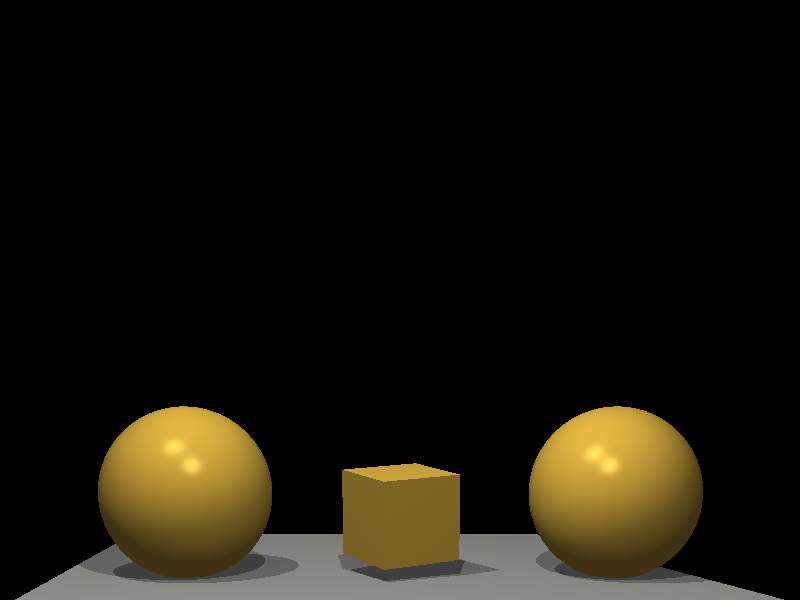
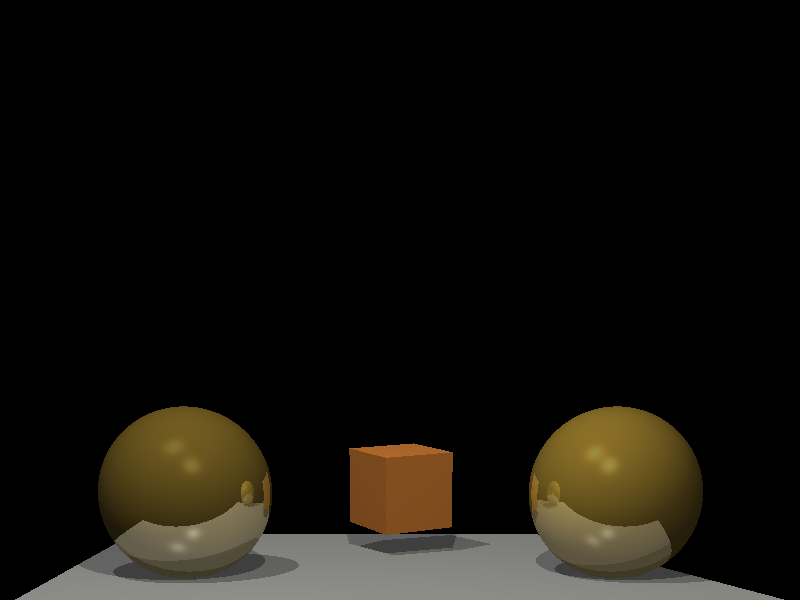
start of refraction (added transparency property to Material)

Changed region(s): [[0.6562, 0.66, 0.9062, 0.96], [0.125, 0.66, 0.3438, 0.96], [0.4062, 0.72, 0.625, 0.99]]

diff --git a/Commons/Materials/MaterialFactory.cs b/Commons/Materials/MaterialFactory.cs
@@ -2,74 +2,74 @@
 
 public class MaterialFactory
 {
-    public static Material Create(MaterialType type, double reflectivity)
+    public static Material Create(MaterialType type, double reflectivity = 0, double transparency = 0)
     {
         return type switch
         {
             MaterialType.Emerald => new Material(type, new RgbColor(0.0215, 0.1745, 0.0215), new RgbColor(0.07568, 0.61424, 0.07568),
-                new RgbColor(0.633, 0.727811, 0.633), 0.6, reflectivity),
+                new RgbColor(0.633, 0.727811, 0.633), 0.6, reflectivity, transparency),
 
             MaterialType.Jade => new Material(type, new RgbColor(0.135, 0.2225, 0.1575), new RgbColor(0.54, 0.89, 0.63),
-                new RgbColor(0.316228, 0.316228, 0.316228), 0.1, reflectivity),
+                new RgbColor(0.316228, 0.316228, 0.316228), 0.1, reflectivity, transparency),
 
             MaterialType.Obsidian => new Material(type, new RgbColor(0.05375, 0.05, 0.06625), new RgbColor(0.18275, 0.17, 0.22525),
-                new RgbColor(0.332741, 0.328634, 0.346435), 0.3, reflectivity),
+                new RgbColor(0.332741, 0.328634, 0.346435), 0.3, reflectivity, transparency),
 
             MaterialType.Pearl => new Material(type, new RgbColor(0.25, 0.20725, 0.20725), new RgbColor(1.0, 0.829, 0.829),
-                new RgbColor(0.296648, 0.296648, 0.296648), 0.088, reflectivity),
+                new RgbColor(0.296648, 0.296648, 0.296648), 0.088, reflectivity, transparency),
 
             MaterialType.Ruby => new Material(type, new RgbColor(0.1745, 0.01175, 0.01175), new RgbColor(0.61424, 0.04136, 0.04136),
-                new RgbColor(0.727811, 0.626959, 0.626959), 0.6, reflectivity),
+                new RgbColor(0.727811, 0.626959, 0.626959), 0.6, reflectivity, transparency),
 
             MaterialType.Turquoise => new Material(type, new RgbColor(0.1, 0.18725, 0.1745), new RgbColor(0.396, 0.74151, 0.69102),
-                new RgbColor(0.297254, 0.30829, 0.306678), 0.1, reflectivity),
+                new RgbColor(0.297254, 0.30829, 0.306678), 0.1, reflectivity, transparency),
 
             MaterialType.Brass => new Material(type, new RgbColor(0.329412, 0.223529, 0.027451), new RgbColor(0.780392, 0.568627, 0.113725),
-                new RgbColor(0.992157, 0.941176, 0.807843), 0.21794872, reflectivity),
+                new RgbColor(0.992157, 0.941176, 0.807843), 0.21794872, reflectivity, transparency),
 
             MaterialType.Bronze => new Material(type, new RgbColor(0.2125, 0.1275, 0.054), new RgbColor(0.714, 0.4284, 0.18144),
-                new RgbColor(0.393548, 0.271906, 0.166721), 0.2, reflectivity),
+                new RgbColor(0.393548, 0.271906, 0.166721), 0.2, reflectivity, transparency),
 
             MaterialType.Chrome => new Material(type, new RgbColor(0.25, 0.25, 0.25), new RgbColor(0.4, 0.4, 0.4), new RgbColor(0.774597, 0.774597, 0.774597),
-                0.6, reflectivity),
+                0.6, reflectivity, transparency),
 
             MaterialType.Copper => new Material(type, new RgbColor(0.19125, 0.0735, 0.0225), new RgbColor(0.7038, 0.27048, 0.0828),
-                new RgbColor(0.256777, 0.137622, 0.086014), 0.1, reflectivity),
+                new RgbColor(0.256777, 0.137622, 0.086014), 0.1, reflectivity, transparency),
 
             MaterialType.Gold => new Material(type, new RgbColor(0.24725, 0.1995, 0.0745), new RgbColor(0.75164, 0.60648, 0.22648),
-                new RgbColor(0.628281, 0.555802, 0.366065), 0.4, reflectivity),
+                new RgbColor(0.628281, 0.555802, 0.366065), 0.4, reflectivity, transparency),
 
             MaterialType.Silver => new Material(type, new RgbColor(0.19225, 0.19225, 0.19225), new RgbColor(0.50754, 0.50754, 0.50754),
-                new RgbColor(0.508273, 0.508273, 0.508273), 0.4, reflectivity),
+                new RgbColor(0.508273, 0.508273, 0.508273), 0.4, reflectivity, transparency),
 
             MaterialType.BlackPlastic => new Material(type, new RgbColor(0.0, 0.0, 0.0), new RgbColor(0.01, 0.01, 0.01), new RgbColor(0.5, 0.5, 0.5), 0.25,
-                reflectivity),
+                reflectivity, transparency),
 
             MaterialType.CyanPlastic => new Material(type, new RgbColor(0.0, 0.1, 0.06), new RgbColor(0.0, 0.50980392, 0.50980392),
-                new RgbColor(0.50196078, 0.50196078, 0.50196078), 0.25, reflectivity),
+                new RgbColor(0.50196078, 0.50196078, 0.50196078), 0.25, reflectivity, transparency),
 
             MaterialType.GreenPlastic => new Material(type, new RgbColor(0.0, 0.0, 0.0), new RgbColor(0.1, 0.35, 0.1), new RgbColor(0.45, 0.55, 0.45), 0.25,
-                reflectivity),
+                reflectivity, transparency),
             MaterialType.RedPlastic => new Material(type, new RgbColor(0.0, 0.0, 0.0), new RgbColor(0.5, 0.0, 0.0), new RgbColor(0.7, 0.6, 0.6), 0.25,
-                reflectivity),
+                reflectivity, transparency),
             MaterialType.WhitePlastic => new Material(type, new RgbColor(0.0, 0.0, 0.0), new RgbColor(0.55, 0.55, 0.55), new RgbColor(0.7, 0.7, 0.7), 0.25,
-                reflectivity),
+                reflectivity, transparency),
             MaterialType.YellowPlastic => new Material(type, new RgbColor(0.0, 0.0, 0.0), new RgbColor(0.5, 0.5, 0.0), new RgbColor(0.6, 0.6, 0.5), 0.25,
-                reflectivity),
+                reflectivity, transparency),
 
             MaterialType.BlackRubber => new Material(type, new RgbColor(0.02, 0.02, 0.02), new RgbColor(0.01, 0.01, 0.01), new RgbColor(0.4, 0.4, 0.4),
-                0.078125, reflectivity),
+                0.078125, reflectivity, transparency),
 
             MaterialType.CyanRubber => new Material(type, new RgbColor(0.0, 0.05, 0.05), new RgbColor(0.4, 0.5, 0.5), new RgbColor(0.04, 0.7, 0.7), 0.078125,
-                reflectivity),
+                reflectivity, transparency),
             MaterialType.GreenRubber => new Material(type, new RgbColor(0.0, 0.05, 0.0), new RgbColor(0.4, 0.5, 0.4), new RgbColor(0.04, 0.7, 0.04), 0.078125,
-                reflectivity),
+                reflectivity, transparency),
             MaterialType.RedRubber => new Material(type, new RgbColor(0.05, 0.0, 0.0), new RgbColor(0.5, 0.4, 0.4), new RgbColor(0.7, 0.04, 0.04), 0.078125,
-                reflectivity),
+                reflectivity, transparency),
             MaterialType.WhiteRubber => new Material(type, new RgbColor(0.05, 0.05, 0.05), new RgbColor(0.5, 0.5, 0.5), new RgbColor(0.7, 0.7, 0.7), 0.078125,
-                reflectivity),
+                reflectivity, transparency),
             MaterialType.YellowRubber => new Material(type, new RgbColor(0.05, 0.05, 0.0), new RgbColor(0.5, 0.5, 0.4), new RgbColor(0.7, 0.7, 0.04), 0.078125,
-                reflectivity),
+                reflectivity, transparency),
 
             _ => throw new ArgumentException("Unknown Material Type")
         };

diff --git a/Reflection/Program.cs b/Reflection/Program.cs
@@ -16,9 +16,9 @@ internal static class Program
 
     private static readonly List<IObject3D> Objects3D =
     [
-        new Sphere(new Vector3D(150, 475, 200), 100, MaterialFactory.Create(MaterialType.Gold, 0)),
-        new Cube(new Vector3D(400, 500, 200), 100, MaterialFactory.Create(MaterialType.Gold, 0), 30),
-        new Sphere(new Vector3D(650, 475, 200), 100, MaterialFactory.Create(MaterialType.Gold, 0)),
+        new Sphere(new Vector3D(150, 475, 200), 100, MaterialFactory.Create(MaterialType.Gold, 0.5)),
+        new Cube(new Vector3D(400, 450, 400), 100, MaterialFactory.Create(MaterialType.Bronze, 0), 30),
+        new Sphere(new Vector3D(650, 475, 200), 100, MaterialFactory.Create(MaterialType.Gold, 0.4)),
         //floor
         new Triangle(new Vector3D(0, 600, 40), new Vector3D(800, 600, 40), new Vector3D(0, 500, 600), MaterialFactory.Create(MaterialType.Chrome, 0)),
         new Triangle(new Vector3D(800, 600, 40), new Vector3D(600, 500, 600), new Vector3D(0, 500, 600), MaterialFactory.Create(MaterialType.Chrome, 0))

diff --git a/Commons/Materials/Material.cs b/Commons/Materials/Material.cs
@@ -1,6 +1,13 @@
 namespace Commons.Materials;
 
-public class Material(MaterialType type, RgbColor ambient, RgbColor diffuse, RgbColor specular, double shininess, double reflectivity)
+public class Material(
+    MaterialType type,
+    RgbColor ambient,
+    RgbColor diffuse,
+    RgbColor specular,
+    double shininess,
+    double reflectivity = 0,
+    double transparency = 0)
 {
     public MaterialType Name => type;
     public RgbColor Ambient => ambient;
@@ -8,4 +15,5 @@ public class Material(MaterialType type, RgbColor ambient, RgbColor diffuse, Rgb
     public RgbColor Specular => specular;
     public double Shininess => shininess;
     public double Reflectivity => reflectivity;
+    public double Transparency => transparency;
 }

diff --git a/Commons/RayTracer.cs b/Commons/RayTracer.cs
@@ -55,6 +55,14 @@ public class RayTracer(List<IObject3D> sceneObjects, List<LightSource> lightSour
             color = color * (1 - sceneObject.Material.Reflectivity) + reflectionColor * sceneObject.Material.Reflectivity;
         }
 
+        if (sceneObject.Material.Reflectivity > 0 && currentDepth < maxDepth)
+        {
+            var rayOfIntersection = new Ray(intersectionPoint, ray.Direction);
+            var refractionColor = CalcRay(rayOfIntersection, currentDepth + 1);
+            var transparency = sceneObject.Material.Transparency;
+            color = color * (1 - transparency) + refractionColor * transparency;
+        }
+
         return color;
     }
 
